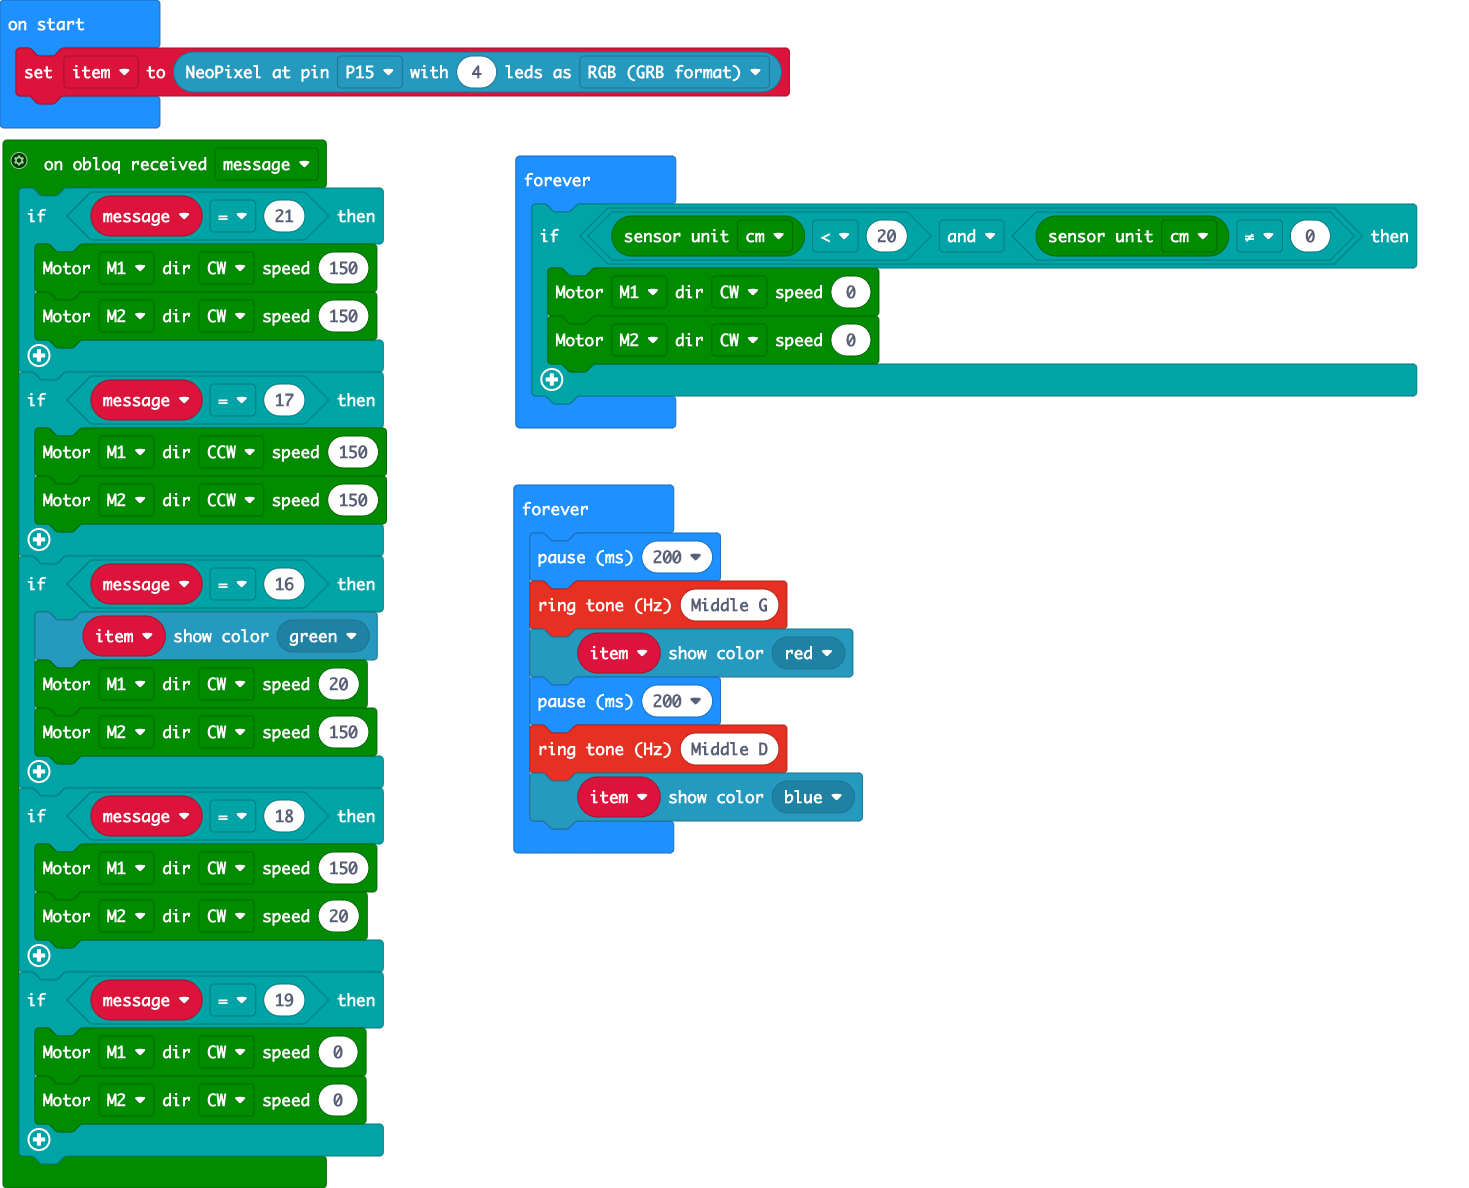
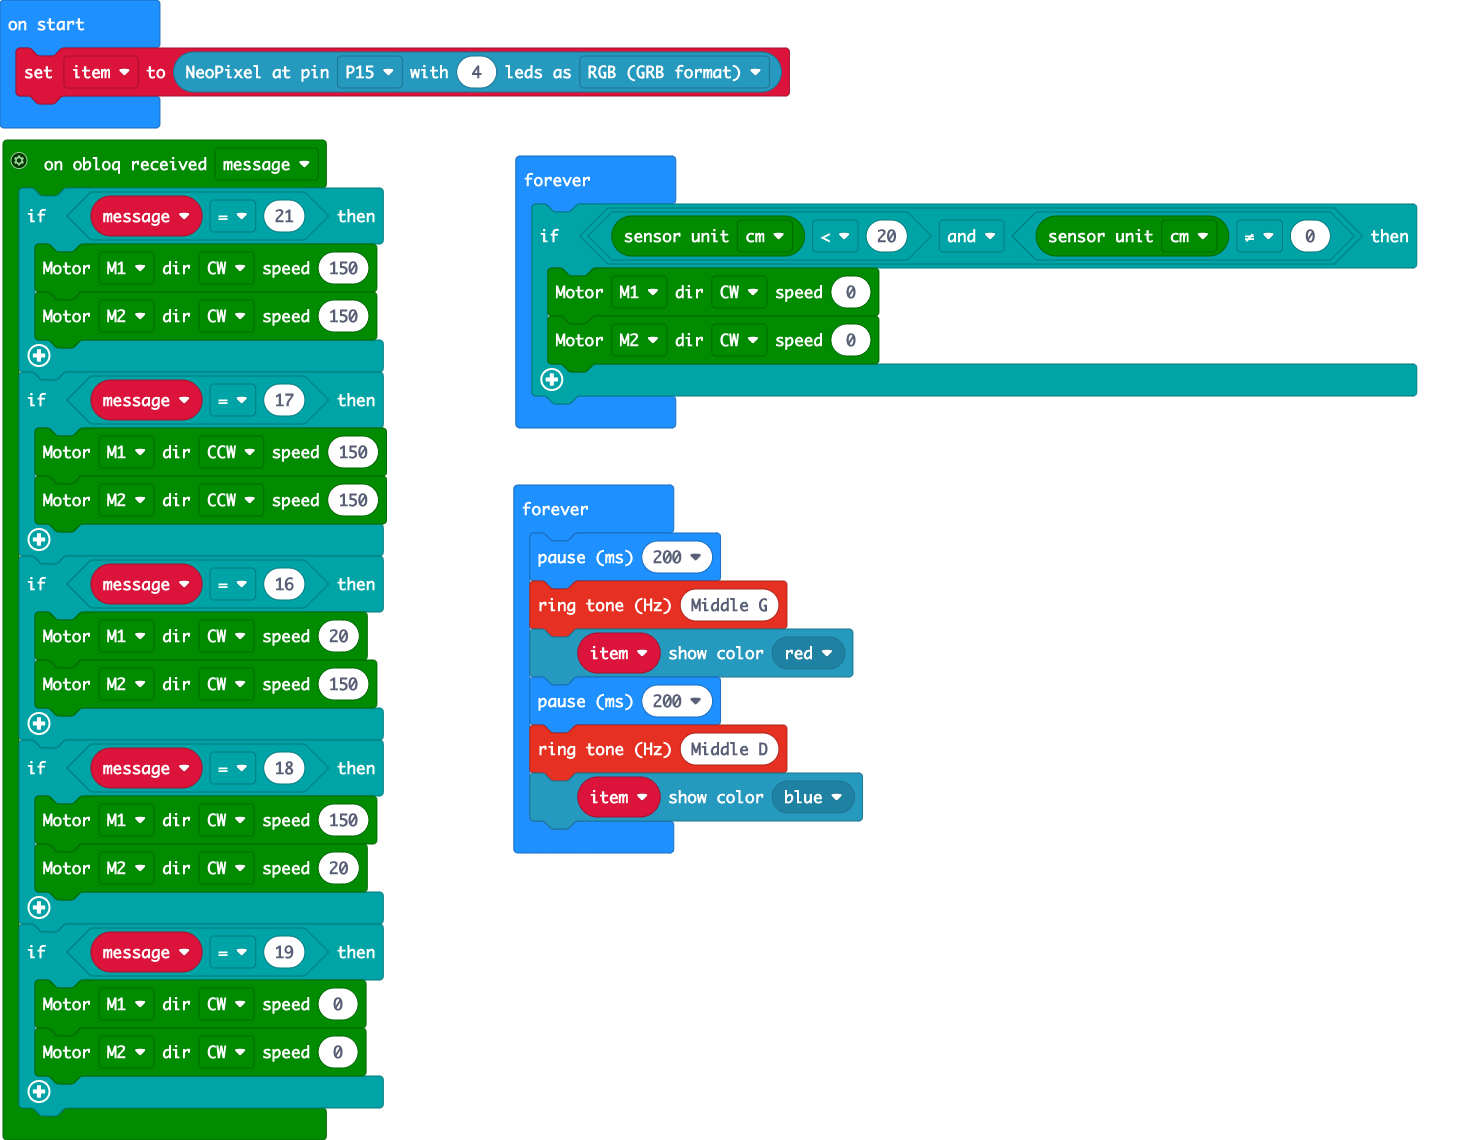
Update main.blocks, main.ts

Changed region(s): [[0.0, 0.0, 0.5514, 0.9825], [0.337, 0.1228, 0.9803, 0.7675]]

diff --git a/main.ts b/main.ts
@@ -8,7 +8,6 @@ maqueen.IR_callbackUser(function ({ myparam: message }) {
         maqueen.MotorRun(maqueen.aMotors.M2, maqueen.Dir.CCW, 150)
     }
     if (message == 16) {
-        item.showColor(neopixel.colors(NeoPixelColors.Green))
         maqueen.MotorRun(maqueen.aMotors.M1, maqueen.Dir.CW, 20)
         maqueen.MotorRun(maqueen.aMotors.M2, maqueen.Dir.CW, 150)
     }
@@ -21,8 +20,7 @@ maqueen.IR_callbackUser(function ({ myparam: message }) {
         maqueen.MotorRun(maqueen.aMotors.M2, maqueen.Dir.CW, 0)
     }
 })
-let item: neopixel.Strip = null
-item = neopixel.create(DigitalPin.P15, 4, NeoPixelMode.RGB)
+let item = neopixel.create(DigitalPin.P15, 4, NeoPixelMode.RGB)
 basic.forever(function () {
     if (maqueen.sensor(PingUnit.Centimeters) < 20 && maqueen.sensor(PingUnit.Centimeters) != 0) {
         maqueen.MotorRun(maqueen.aMotors.M1, maqueen.Dir.CW, 0)
